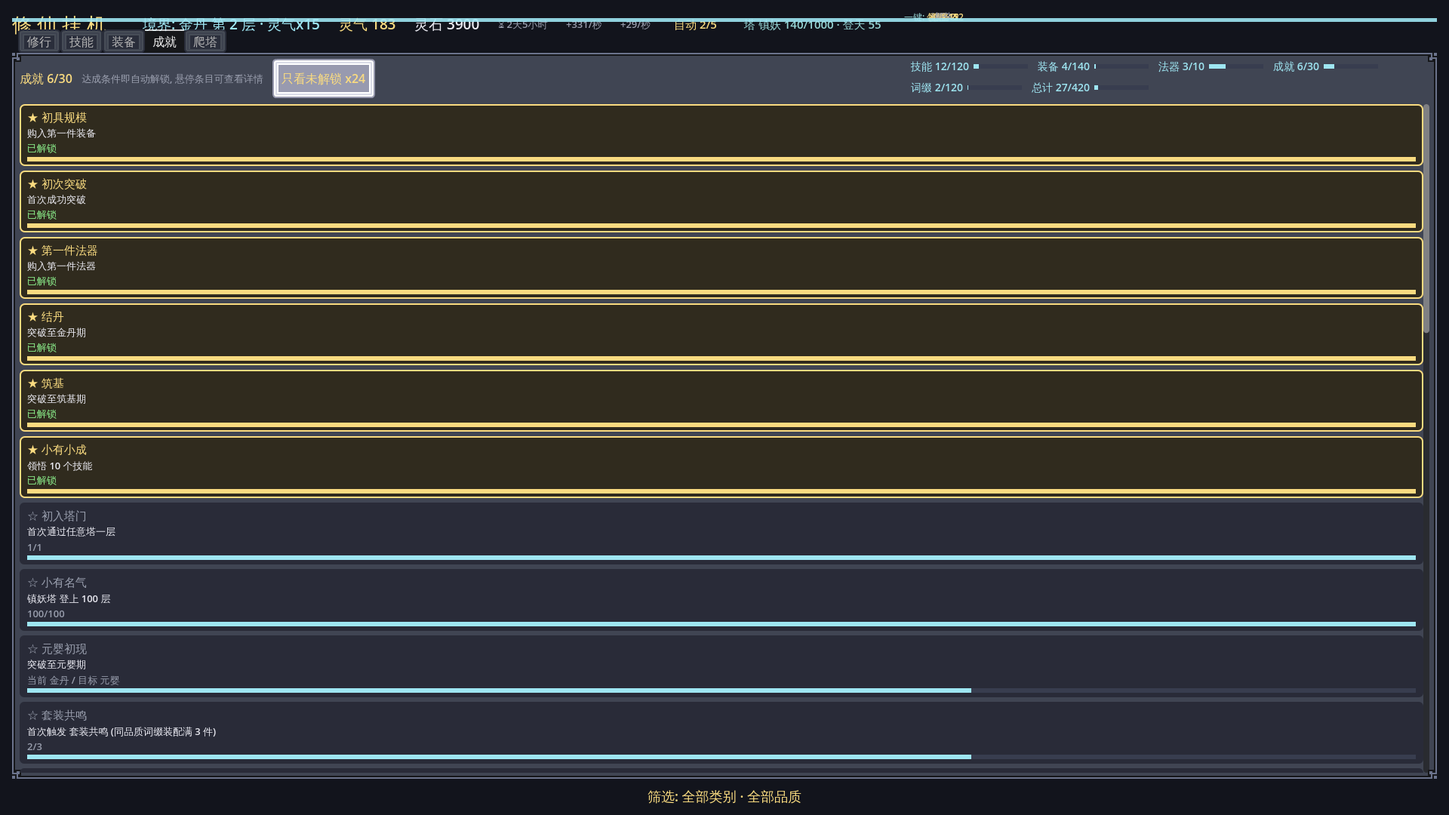
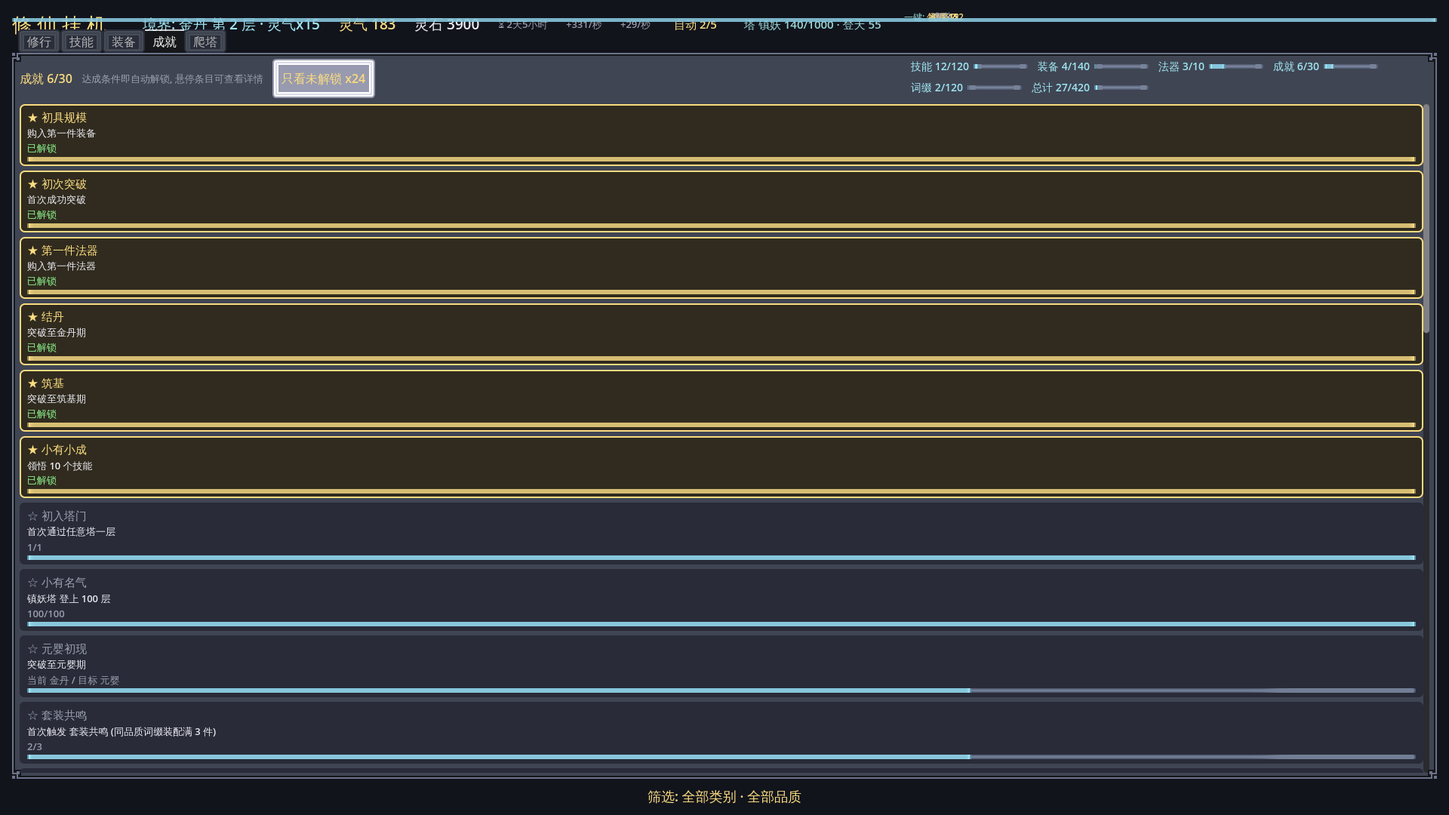
feat(打磨-135d): 进度条族 7 族 bar 底+填充 换 9-slice 纹理 (bar_track 裁实心带防细条压扁/bar_fill 裁亮带 modulate 金青档 逻辑不变)
ui_test +29 断言 (纹理路径/裁带 region/边距/modulate/goalbar 攒满 动态/节流/收尾); selftest 10952 / stress 646 / ui_test 2741 / 冒烟 0 报错

diff --git a/README.md b/README.md
@@ -62,7 +62,7 @@ PROJECT_PLAN.md          # 项目计划
 ~/bin/godot --headless --path .            # 无头冒烟 (应无报错, 会一直挂机运行)
 ~/bin/godot --headless --path . -s res://scripts/selftest.gd   # 全流程自测 (学习/购买/穿戴/冷却/存读档/倍率/数值曲线/成就/飞升后道行/装备/技能浮动灵气速率增量/神通爆发预览/一键神通/神通冷却完毕就绪事件/神通冷却进度比例/突破成功率tooltip预期成本/突破失败浮动预期成本/突破成功浮动新境界成功率/离线收益启动金色浮动/自动突破/自动购置/自动施展/自动领悟/自动系列状态汇总/自动系列开关启动提示/顶栏自动系列状态徽标/顶栏自动徽标点击直达/顶栏一键系列状态汇总徽标/一键汇总徽标段悬浮明细/挂机时长顶栏常显/主资源速率顶栏常显/灵石速率顶栏常显/下一目标渐变进度条/挂机时长悬停离线收益预估/自动购置按钮tooltip动态段/自动突破按钮tooltip动态段/自动施展自动领悟按钮tooltip动态段/顶栏主资源行悬停下一目标tooltip/一键挂机/一键挂机按钮tooltip动态段/顶栏挂机状态徽标点击直达/成就页只看未解锁筛选/M5-4镇妖塔通关态(称号+灵石100万+永久atk/def+15%增益, 守塔模式幂等/顶栏称号徽标/存档旧档兜底)/M5-1爬塔数据层(18特性/145怪物/镇妖塔1000层表)/M6-1 DIY装备词缀数据层(120词缀 6池x5品质x4变体+掉落概率表20桶)/M6-2 DIY词缀逻辑层(库存/装配/拆卸/分解/槽位升级/套装共鸣/属性公式接入/塔掉落结算/存档旧档兜底)/M6-3 DIY词缀UI数据层(评分/装配预览/收集成就/一键装配/分解全部/存档seen_affixes)/收集进度一览词缀类(五类+总计419/词缀只增不减)/塔战斗词缀掉落底部消息展示(打磨-94 affix_drop_text)/自动爬塔胜局汇总底部消息+会话统计状态行(打磨-95 auto_tower_last_text)/词缀材料系统(打磨-96 分解产出材料1+品质档/材料兑换指定池品质词缀保底获取/背包满普通自动入料/槽位升级消耗200材料/affix_best_variant_id/存档affix_materials旧档兜底)/背包容量成就解锁(打磨-97 bag_40百宝囊:曾入包满30格容量30->40/bag_expand配置派生态不存档/容量行tooltip动态段/成就进度比例/存档ach_done往返+旧档30兜底)/选中词缀评分Δ实时预览+评分小数显示修复(打磨-98 fmt_score<1e4两位小数>=1e4万档/affix_sel_delta_text只读接口:空槽增益与已装槽换装净增益取最大/无正增益与未选中空串/装备取前3件+等N件汇总)/一键强化槽位(打磨-99 affix_upgrade_all批量接口:道祖期批量3->4槽200材料/件/0变更幂等不消耗/未道祖期与材料不足与全满级与无拥有拒绝/结果结构count-upgraded-cost-materials前后)/奖励类特性结算接入(打磨-100 18特性全量:材料囊x2材料/幸运50%全奖励x2/不屈x1.2/词缀袋掉率+10%/富矿灵石x2, 材料掉落=1+怪物种mat_w整件入账, 会话材料累计+状态行材料段, 存档读档归零, 只读无副作用)/一键兑换(打磨-101 affix_exchange_all批量接口:材料连兑买不起或背包满为止复用affix_exchange真实路径/0可兑幂等不消耗/背包满中途停止/返回count-id-cost-materials前后/空池结构完整不崩溃/背包留1空只兑1件封顶)/登天梯500层后全部怪物默认魔化(打磨-102 get_endless_floor 500+非Boss层魔化口径同精英:数值x3+追加1层取模确定性特性+「魔化·」前缀+奖励x2/Boss层独立x10不叠魔化/500前旧口径不变)/登天梯里程碑宝箱保底高品质词缀(打磨-103 来源配置min_tier=稀有+affix_roll_drop钳制只升不降/其余来源旧口径不变/里程碑Boss层怪物卡tooltip展示保底段)/天怨特性登天梯HP生效(打磨-104 heaven_grudge仅无尽塔HP x(1+层数/400) 数据驱动/monster_stats幂等防tooltip二次叠乘/怪物卡tooltip天怨生效段)/战斗时长预估行(打磨-105 tower_rounds_line只读接口:ceil(怪HP/预估伤害)伤害取最不利0.9档/败预测追加本层战力不足/回合>1e12走fmt万档防溢出/剧毒-15%联动/道祖量级锚定/只读无副作用)/怪物卡tooltip材料掉落预估(打磨-106 掉落展示灵石材料词缀材料段展示位:tooltip追加奖励材料N行=向上取整stats mats与战斗结算同源/修tower_monster_stats幂等再算丢mats:stats字典保留species键+mats沿用已结算值/材料囊x2层幂等恒等/空记录mats=0不展示行/只读无副作用)/塔战斗胜利浮动提示(打磨-107 tower_win_float_text只读接口:入参try_tower_challenge结算字典,败局与缺win字段空串,段=塔名层怪名+灵石+材料+幸运不屈+每日首胜+词缀件数,0奖励无对应段/只读无副作用)/怪物种reward权重stone_w与affix_w结算接入(打磨-108 M5掉落差异化灵石与词缀段落地:stone_w乘层表灵石进tower_monster_stats stone首算叠+stats幂等沿用不二重/affix_w作词缀掉率base乘数affix_roll_drop有效掉率=来源base x affix_w + bonus_chance clamp 0..1/Boss无种层权重1.0旧口径兜底/怪物卡tooltip种掉落权重行)装备按评分排序数据层(打磨-109 M6规格装备列表按评分排序:equip_score_sort_order评分降序同分id升序确定性/单调性全表非增/词缀装配评分联动位置升/拆卸回退/默认状态序打磨-22口径不变/只读无副作用)/修行统计词缀段(打磨-110 stats_text追加词缀掉落装配分解兑换4段:埋点打磨-96/99/101已有展示位补齐/只读拼接无新存档字段/_load_stats兜底0/存档往返恒等/主场景统计行tooltip口径说明)/爬塔战力对比DEF段(打磨-111 M5规格玩家atk/def vs怪物DEF段:tower_power_def_line只读接口玩家DEF=player_def汇总剧毒不生效怪物DEF同源/双塔卡片战力对比行下12px DEF行/刷新键玩家DEF 0.5档)/换装对比战力评分Δ段(打磨-112 M6规格当前穿戴vs备选实时对比缺口:equip_swap_hint追加d_atk/d_def/score_d三段=新-旧atk/def池与equip_score差/灵气灵石攻击防御负数带负号0省略评分段恒带+0.00无变化信号/全无变化空text旧口径/只读无副作用)/爬塔战力构成tooltip(打磨-113 M5规格境界x功法x装备x塔专属加成构成展示位:GameData.tower_power_compose_tip只读接口五段构成境界基础x功法池x装备池含词缀x法器池x塔专属通关增益+套装共鸣/汇总行同源player_atk/def/剧毒只减有效ATK不入基础构成/功法装备法器池变化动态同步/共鸣x1.06触发/通关x1.15/境界40^1基础80档/飞升道祖进度17/只读连读无副作用)/镇妖塔通关大奖顶级传说词缀x3(打磨-114 M5规格一次性大奖顶级词缀x3落地:原神品口径M6落地后=最高档传说,GameData.tower_clear_affix_ids只读接口每池最高价值变体按价值降序取前3/try_tower_challenge首通1000层结算发放3件传说入包+背包满折算材料1+品质档/塔_clear_reward_text追加顶级传说词缀xN段+背包满折算材料段/胜利浮动与自动爬塔文案追加大奖词缀段/守塔幂等不重发/结果字典新增clear_reward_affixes+clear_reward_mat/旧档兼容)/登天梯里程碑Boss里程碑宝箱标记+胜利浮动宝箱段(打磨-115 M5规格每100层里程碑Boss+宝箱保底稀有+词缀展示位:try_tower_challenge结果字典新增is_milestone=登天梯100倍数boss胜局与drop_src=milestone同口径/塔win_float_text追加里程碑宝箱保底稀有+词缀段/仅登天梯生效镇妖塔与精英层与普通层与败局恒false/只读无副作用)/登天梯每日首胜奖励当日状态行(打磨-116 M5规格每日首胜奖励展示位:tower_daily_date==今日即已触发与结算分支同口径/tower_daily_first_line只读两态接口已触发明日再触发与未触发0.5x口径说明/tower_status_line已触发追加段未触发不追加/当日再胜新纪录不重复发放幂等/跨日日期非今日段消失可再触发/只读连读无副作用)/怪物卡tooltip属性偏向类型行(打磨-117 M5规格120怪物种stat_bias血牛狂攻铁壁均衡展示位:tower_monster_stats追加bias_cn/category_name字段stats字典携带幂等原始记录从怪物种解析Boss无种空串兜底/tower_monster_tip特性行后追加类型·偏向行仅数据层展示只读无副作用)/镇妖塔主题与最终Boss分层标记+tooltip分层行(打磨-118 M5规格25专属Boss20小x10+4主题x20+最终Boss镇妖塔主x50分层展示位:tower_boss_tier三态只读接口small/theme/final非Boss与登天梯里程碑Boss空串不展示/TOWER_BOSS_MULT_SMALL_THEME_FINAL常量单一来源与gen_data同口径数值已落表只展示不改数值/tower_monster_tip特性行后追加分层行空串不展示+name行追加主题Boss与最终Boss后缀小Boss无后缀防重复/只读无副作用)/怪物卡tooltip精英与魔化结构行(打磨-119 M5规格每10层精英数值x3掉落x2+登天梯500层后所有怪物默认魔化的结构奖励倍率展示位:数值与掉落已随层表结算只给口径说明,tower_struct_line只读接口双塔精英同结构魔化前缀+追加1额外特性+x3/x2与TOWER_ELITE_MULT_REWARD常量同源登天梯500+非Boss层恒魔化ENDLESS_DEMON_FLOOR/非精英与Boss层空串不叠/分层行后追加结构行只读无副作用)/怪物卡tooltip词缀掉落概率行(打磨-120 M6规格掉落来源普通5%精英20%Boss1~3件里程碑宝箱1~2件展示位缺口:结算口径affix_roll_drop已落地但tooltip无概率展示,tower_affix_drop_line只读接口=来源base x种affix_w+词缀袋+10%同表达式clamp 100%转1~N件/败局不掉词缀标注仅胜利/普通层百分比档精英base20%Boss100%1~3件里程碑100%1~2件/stats字典路径幂等恒等不丢/状态行tooltip词缀掉落口径说明)/双塔卡片下一里程碑行(打磨-121 M5规格每100层天阶里程碑进度展示位:tower_milestone_line只读接口距下个精英层/小Boss/主题Boss/最终Boss/登天梯里程碑Boss还有几层,本层即是标注就在本层,登天梯100倍数下一里程碑Boss+宝箱保底稀有+/镇妖塔通关守塔模式空串隐藏/双塔卡片回合预估行下12px里程碑行文本变化才刷空串隐藏/tooltip口径说明)/自动爬塔会话词缀段(打磨-122 挂机自动爬塔战斗掉落词缀会话累计展示位:_auto_tower_affixes会话累计内存态读档归零,状态行与auto_tower_session_text追加词缀N件段0不追加旧口径/通关大奖词缀另段不计入/刷新键并入会话材料词缀累计/状态行tooltip口径说明)/爬塔战力对比胜阈值缺口行(打磨-123 败预测时玩家不知需多少ATK才胜:tower_win_threshold_line只读接口,阈值=怪物ATK x 0.85与tower_power_line判定口径同源单点,缺口=阈值-当前有效ATK剧毒已计入,fmt_score口径<1e4两位小数防fmt int截断,弱玩家数据锚定镇妖塔第12层判定败缺口收窄功法/装备池变化动态恒等剧毒放大/登天梯同口径/只读连读恒定无副作用)/挑战按钮tooltip动态段(打磨-124 点击前悬停不知本层胜败预测与胜利结算内容:tower_challenge_tip只读接口=层标题+tower_power_line胜负预测+败预测追加tower_win_threshold_line阈值/缺口行/胜预测追加胜利结算预览段(灵石表值幸运不屈属结算随机不入预览+材料向上取整同怪物卡+词缀掉率同tower_affix_drop_line仅胜利结算+登天梯每日首胜0.5x口径+镇妖塔1000层首通一次性大奖口径未通关未发放态+剧毒怪战胜减攻警告),main.gd _tw_btn_tips缓存文本变化才刷)/自动爬塔开关tooltip会话统计段(打磨-125 挂机期间自动爬塔胜局/灵石/材料/词缀累计悬停展示位:开关tooltip动态段追加本次运行会话行=auto_tower_session_text单源恒等不二次拼接/0胜局显口径说明(内存态不持久化读档归零)防误读为断档/真实链路道祖自动双塔全胜文案随结算动态同步/只读连读恒定无副作用),主场景 冒烟 0 报错 回归 全过, main.gd _tw_auto_btn tooltip缓存文本变化才刷/双塔卡片下一里程碑ETA行(打磨-127 战斗节奏≤2秒/层时间预期:tower_milestone_eta只读接口=层距x本层预估回合[tower_rounds_line同源最不利0.9档]x2s/层,7天+封顶,败预测显战力不足提示,守塔模式/无下一里程碑空串,目标解析抽单点_tower_milestone_target与tower_milestone_line文案同源恒等/双塔卡片里程碑行下12px ETA行文本变化才刷/刷新键并入通关态感知守塔翻转/tooltip口径说明/动态同步升层剧毒强玩家), main.gd _tw_milestone_eta_labels双塔标签缓存/登天梯段进度(打磨-129 tower_endless_mile_ratio单点口径(层%100)/100,100倍数满条过层绕回<1钳制1层,1..99严格单调2000层扫描区间[0.01,1.0]只读连读无副作用)/顶栏双塔进度徽标(打磨-130 挂机扫视顶栏爬塔进度展示位:tower_progress_badge_text只读接口=塔镇妖N/1000(通关)+登天M,双塔均0层空串UI隐藏防空占位与tower_status_line同源字段/通关追加(通关)标注/登天跨档动态同步/tower_progress_badge_tip口径说明+点击直达/只读连读恒定无副作用/顶栏双塔进度徽标tooltip动态段(打磨-131 会话文案单源复用auto_tower_session_text:开关门控+会话空门控/开关关会话保留/只读无副作用)/自动爬塔会话登天梯新纪录累计段(打磨-132 挂机回来看会话不知本次运行创几个新纪录:_auto_tower_new_records次数+_auto_tower_new_best最高层内存态读档归零同灵石口径/_try_auto_tower按结算字典new_record字段累计仅登天梯胜局计入镇妖塔败局恒false/auto_tower_session_text追加新纪录N次最高第M层段0新纪录旧口径0胜局分支恒无段状态行单源复用自动覆盖/刷新键并入会话新纪录次数防漏刷/状态行tooltip口径说明)/自动爬塔会话里程碑宝箱累计段(打磨-133 挂机回来看会话不知本次运行触发几次里程碑宝箱:_auto_tower_milestones内存态读档归零同灵石口径/_try_auto_tower按结算字典is_milestone字段累计仅登天梯100倍数Boss胜局计入镇妖塔普通层败局恒false/auto_tower_session_text追加里程碑宝箱N次段0不追加旧口径段在词缀后新纪录前状态行单源复用自动覆盖/刷新键并入会话宝箱次数防漏刷/状态行tooltip口径说明), 10952 项, 退出码 0=通过)
 ~/bin/godot --headless --path . -s res://scripts/stress_test.gd  # 数值曲线压力测试 (全境界/全品质梯度/解锁门槛一致性/后期溢出检查/M6-4 DIY词缀数值平衡[词缀曲线vs商店装备/满配20槽溢出/共鸣x1.4封顶/成功率离线clamp/掉落桶品质曲线/槽位升级材料扣减(打磨-96)/怪物种reward权重受控(打磨-108 120种stone_w 0.8~1.4与affix_w 0.2~0.8范围断言+同种跨层1.06指数灵石曲线单调有限)], 646 项, CI 可跑, 退出码 0=通过)
-~/bin/godot --headless --path . res://scenes/ui_test.tscn  # UI 断言 (成就进度条/收集条/品质色/一键系列/顶栏灵石可购进度/灵石行内联下一件可购/法器属性构成/装备/技能浮动灵气速率增量/神通爆发预览/单个神通施展浮动/一键神通/神通冷却完毕就绪浮动/神通冷却进度条/神通冷却完毕收口动画+按钮微光/一键施展浮动爆发总量/单个神通施展浮动爆发总量/冷却完毕就绪浮动爆发总量/突破成功率tooltip预期成本/突破失败浮动预期成本/突破成功浮动新境界成功率/离线收益启动金色浮动/自动突破/自动购置/自动施展/自动领悟/自动系列状态汇总/自动系列汇总行点击直达/自动系列开关启动提示/顶栏自动系列状态徽标/顶栏自动徽标点击直达/顶栏一键系列状态汇总徽标/一键汇总徽标段悬浮明细/挂机时长顶栏常显/主资源速率顶栏常显/灵石速率顶栏常显/下一目标渐变进度条/顶栏进度条点击直达/挂机时长悬停离线收益预估/自动购置按钮tooltip动态段/自动突破按钮tooltip动态段/自动施展自动领悟按钮tooltip动态段/顶栏主资源行悬停下一目标tooltip/一键挂机/一键挂机按钮tooltip动态段/顶栏挂机状态徽标点击直达/成就页只看未解锁筛选/M5-4镇妖塔通关态(称号徽标显隐/tooltip/点击直达爬塔页tab4+镇妖塔卡片金边高亮/未通关不发放/首通发放灵石大奖/守塔幂等/状态行称号)/M6-3 DIY词缀UI(词缀背包抽屉/槽位chips装配拆卸换装/评分行/一键最佳装配/分解全部/选中金边/tooltip评分行)/收集进度一览词缀类(6条mini进度条/总419/词缀点击直达装备页)/塔战斗词缀掉落底部消息展示(打磨-94 胜局boss必掉词缀消息段/败局无段)/自动爬塔胜局汇总底部消息+会话统计状态行(打磨-95 挂机期间胜局静默补位/变更事件节流/会话不持久化)/词缀材料兑换面板(打磨-96 材料行/6池x5品质筛选/兑换按钮文案节流/兑换入包最高价值变体/材料不足与背包满拒绝/toggle取消选中)/背包容量成就解锁UI(打磨-97 容量行30->40动态文案/tooltip未解锁还差N种与已解锁两态/成就解锁ach_done/40满拒绝/节流稳定/收尾回30)/选中词缀评分Δ预览行(打磨-98 未选中隐藏/空槽增益/换装取最大/全满换装净增益0.094精确/全平负隐藏/节流/只读无副作用/评分断言fmt_score适配)/一键强化槽位按钮(打磨-99 道祖期批量3->4:按钮节点+tooltip成本道祖期幂等口径/文案需道祖期·材料不足两档·xN计数/点击升4槽+扣200+chips重建4+底部消息+浮动/满级文案同步/再点幂等0变更不浮动/主循环文案同步/收尾干净基准)/一键兑换按钮(打磨-101 材料连兑买不起或背包满为止:按钮节点+tooltip连兑背包满幂等口径/材料0不足·x2计数文案/点击兑2件入包+扣50余20+底部消息+浮动/材料25 x1文案/背包满拒绝0件不扣不浮动/未选池文案/收尾干净基准)/登天梯500层后默认魔化(打磨-102 卡片副标题魔化口径/499层无魔化前缀/500层里程碑Boss标记不叠魔化/501层普通层怪物卡魔化前缀+战力对比按魔化数值预测败/弱玩家败停留无消耗/强玩家飞升道祖胜推进502+奖励+统计/502层恒魔化/收尾干净基准)/登天梯里程碑宝箱保底(打磨-103 卡片副标题宝箱口径/里程碑Boss层怪物卡tooltip含保底稀有+段同输入恒等/精英层无宝箱段/强玩家100层里程碑Boss胜局词缀入包品质恒>=稀有/收尾干净基准)/战斗时长预估行UI(打磨-105 双塔卡片怪物卡与战力对比间12px预估行:标签节点双塔齐全/文案=tower_rounds_line接口恒等/败预测追加本层战力不足与胜预测无后缀/回合+伤害预估段/升层动态同步/剧毒接口恒等/同态节流无副作用/收尾干净基准)/怪物卡tooltip材料预估行UI(打磨-106 双塔怪物卡tooltip含奖励材料N行=向上取整stats mats/tooltip=接口同输入恒等stats字典路径材料行不丢/登天梯同口径/同态节流无副作用/收尾干净基准)/塔战斗胜利浮动提示UI(打磨-107 手动挑战胜利居中绿色浮动:标签节点/第50层小Boss数据锚定/弱玩家恒败不弹浮动+败消息保留/强玩家道祖恒胜计数+1+文案前缀塔名层怪名+胜利+灵石段+词缀件数段+Boss层无材料段+可见+居中y段/收尾词缀清零防污染)/怪物种reward权重tooltip展示UI(打磨-108 双塔怪物卡tooltip含种掉落权重行=接口恒等stats字典路径权重行不丢/有怪物种层灵石x1.255词缀x0.630展示/Boss层权重1.0不展示/同态节流无副作用/收尾干净基准), scene 模式带 autoload装备按评分排序开关UI(打磨-109 装备页品质筛选行尾按评分排序按钮:开关/评分降序首行amulet_6_3同分id升序/末行boot_0_0/全表非增单调/筛选叠加武器首可见行weapon_6_3/词缀装配评分升行位上升/同态节流无统计副作用/开关切换无资源统计副作用/收尾关态干净基准)/修行统计词缀段UI(打磨-110 统计行文本=stats_text接口恒等含词缀4段/tooltip口径行/埋点递增_refresh同步/同态节流无副作用/收尾干净基准)/爬塔战力对比DEF行UI(打磨-111 双塔卡片战力对比行下12px DEF行:节点双塔齐全/文案=tower_power_def_line接口恒等/判定口径说明段/tooltip口径/剧毒ATK变DEF不变/飞升玩家DEF变化动态同步/复位后基准重捕获/升精英层怪物DEF动态同步/同态节流无副作用/收尾干净基准)/爬塔战力构成tooltip UI(打磨-113 战力对比行悬停五段构成:双塔tooltip=判定口径段+构成段拼接恒等/剧毒态判定口径段切减成口径/剧毒仅汇总行追加标注基础构成段不变/同态节流无副作用/收尾干净基准)/镇妖塔通关大奖顶级传说词缀UI(打磨-114 通关态段:大奖ids 3件全传说/首通发放3件传说入包与期望ids恒等/未背包满折算材料0/大奖文案含顶级传说词缀x3段/胜利浮动含大奖词缀段/守塔再胜不重发幂等/收尾清词缀残留防污染后续段)/登天梯里程碑Boss宝箱标记+胜利底部消息浮动宝箱段UI(打磨-115 怪物卡tag追加⚑Boss·里程碑宝箱仅登天梯100倍数boss层:100层含宝箱/101层普通层与镇妖塔不含/强玩家100层胜底部消息+浮动含里程碑宝箱保底稀有+段/101层胜无宝箱段/弱玩家败局不弹浮动/同态节流无副作用/收尾干净基准)/登天梯每日首胜当日状态行UI(打磨-116 爬塔页状态行追加已触发段:未触发态无段+文本=tower_status_line恒等/手动模拟当日触发态刷新键变化自动追加段/弱玩家第15层恒败败局不触发日期不变状态行保持/跨日日期=昨日段消失/状态行tooltip含每日首胜0.5x口径说明/同态节流无统计副作用/收尾干净基准防污染)/怪物卡tooltip属性偏向类型行UI(打磨-117 怪物卡tooltip含类型·偏向行仅数据层:镇妖塔第1层m41虫群·均衡型tooltip含偏向行+含偏向名/tooltip=接口同输入恒等stats字典路径不丢/登天梯第5层同口径恒等/Boss层镇妖塔50层无种无偏向行/同态节流无统计副作用/收尾干净基准)/镇妖塔主题与最终Boss卡片标记UI(打磨-118 卡片tag分层标记:第1层普通层无标记无分层行/第100层主题Boss卡片tag⚑主题Boss+名万幻妖殿主数据锚定+tooltip分层行/第50层小Boss tag恒⚑Boss旧口径+tooltip小Boss分层行/通关守塔模式最终Boss tag⚑最终Boss·镇妖塔主+tooltip最终Boss分层行/登天梯100层里程碑Boss不叠分层标记无分层行/状态行tooltip含分层口径/同态节流无统计副作用/收尾干净基准)/怪物卡tooltip精英与魔化结构行UI(打磨-119 结构行展示位:镇妖塔第1层普通层无精英标记无结构行/第10层精英卡片tag含★精英+魔化·前缀+tooltip含精英结构行=接口恒等/登天梯第510层魔化tooltip含魔化结构行=接口恒等/499层普通层无魔化前缀无结构行/500层里程碑Boss无结构行不叠/状态行tooltip含精英魔化口径/同态节流无统计副作用/收尾干净基准)/怪物卡tooltip词缀掉落概率行UI(打磨-120 掉落概率行展示位:普通层tooltip含掉率行=接口恒等+仅胜利口径/精英层含base20%行/小Boss100%1~3件段/登天梯里程碑Boss100%1~2件段/stats字典路径幂等恒等/状态行tooltip含词缀掉落口径/同态节流无副作用/收尾干净基准)/双塔卡片下一里程碑行UI(打磨-121 里程碑进度展示位:双塔卡片回合预估行下12px里程碑行/节点双塔齐全+基准文案=tower_milestone_line接口恒等含层数+余量/镇妖塔精英本层就在标注/登天梯100层下一=200层动态同步/镇妖塔通关守塔模式隐藏/tooltip口径说明/同态节流无统计副作用/收尾干净基准)/自动爬塔会话词缀段UI(打磨-122 状态行会话段词缀累计:初始0胜局无会话段/手动会话态状态行含词缀3件=auto_tower_session_text恒等/0词缀无词缀段旧口径/状态行tooltip含会话词缀口径大奖另段/同会话态节流无资源统计副作用/收尾干净基准)/爬塔战力对比胜阈值缺口行UI(打磨-123 败预测阈值行展示:双塔阈值行节点齐全/弱玩家镇妖塔第12层判定败数据锚定+登天梯第1层判定胜一败一胜双向/败预测行可见=接口恒等+胜预测行隐藏/阈值缺口数值段精确=怪物ATK x 0.85与缺口fmt_score口径/升精英层20层动态同步/剧毒缺口放大动态同步/tooltip口径+提升路径/强玩家胜预测双塔隐藏/同态节流无统计副作用/收尾干净基准)/挑战按钮tooltip动态段UI(打磨-124 点击前悬停胜败预测+胜利结算预览:双塔挑战按钮tooltip=tower_challenge_tip接口恒等/弱玩家镇妖塔第12层判定败+登天梯第1层判定胜一败一胜双向/败预测tooltip=层标题+预测败+tower_win_threshold_line阈值缺口行无结算预览/胜预测结算预览段精确=灵石表值+材料向上取整+词缀掉率=tower_affix_drop_line恒等+每日首胜未触发态+剧毒警告段恒等+无幸运不屈倍率段/升精英层20层动态同步/同态节流无资源统计副作用/收尾干净基准)/自动爬塔开关tooltip会话统计段UI(打磨-125 开关悬停会话展示位:0胜局tooltip含口径说明段=静态前缀+接口恒等/手动会话态tooltip含自动胜2场+材料+词缀四累计=接口恒等/0词缀无词缀段旧口径/双塔卡片下一里程碑ETA行UI(打磨-127 时间预期展示位:双塔ETA行节点齐全/弱玩家镇妖塔2层败预测战力不足提示=接口恒等+登天梯1层胜预测含下一里程碑ETA约99层段一败一胜双向/升层20层与登天梯100层败预测动态同步/剧毒态有效ATK降成x0.85 ETA行=接口恒等动态同步/tooltip含估算口径+7天封顶+不改判定说明/强玩家飞升道祖登天梯100层胜预测ETA行=接口恒等未封顶/镇妖塔通关守塔模式ETA行隐藏/同态节流无统计副作用/收尾干净基准)/顶栏双塔进度徽标UI(打磨-130 挂机扫视顶栏爬塔进度展示位:节点存在+同父顶栏+青色字色+手型光标+青色圆角底/初始双塔均0隐藏无热区/仅镇妖层·仅登天纪录·双塔并排·通关追加(通关)标注文案=接口恒等/tooltip=接口恒等含双塔口径+点击直达爬塔页/升层动态同步/点击切爬塔页tab4+状态行金边高亮2px+自动恢复/点击无塔统计副作用/同态节流无统计副作用/收尾双塔归零徽标隐藏/顶栏双塔进度徽标tooltip动态段UI(打磨-131 初始会话空+关开关tooltip=静态前缀/会话胜局态开开关_refresh动态同步含四累计=静态+接口恒等/败局清零无段旧口径/开关关段消失会话保留/回开恢复/同态节流无副作用/收尾双塔归零隐藏tooltip空)/自动爬塔会话新纪录累计段UI(打磨-132 状态行会话段新纪录累计展示位:初始0胜局状态行无会话段=接口恒等/会话胜局态新纪录2次最高88_refresh动态同步状态行含段单源恒等/0新纪录无段旧口径/同态节流无统计副作用/收尾状态行=接口恒等干净基准)/自动爬塔会话里程碑宝箱累计段UI(打磨-133 状态行会话段里程碑宝箱累计展示位:初始0胜局状态行无会话段=接口恒等/会话胜局态宝箱3次_refresh动态同步状态行含宝箱段+新纪录段单源恒等/0宝箱无段旧口径/同态节流无统计副作用/状态行tooltip含宝箱段口径/收尾干净基准)/各页大容器frost面板纹理换皮UI(打磨-135b 5页大容器9-slice面板底panel_frame_frost.png:5页StyleBoxTexture+纹理路径+9-slice边距+modulate深色仙侠口径/页内容布局偏移不变x5/技能行卡片仍StyleBoxFlat行高亮金框口径不变/Tab切换0..4往返功能不变/收尾恢复成就页),词缀背包格btn_secondary 9-slice换皮UI(打磨-135c-2 词缀格未选中btn_secondary.png 9-slice纹理底:四态齐全+9-slice边距非0+三态同源纹理状态由modulate区分/悬停提亮与按下压暗区分/深色仙侠底b>r口径/flat保留/选中金边M6-3口径边框2/残留flat排查:徽标族+段热区+顶栏进度条底+收集行+一键挂机flat有意保留清单断言), 2712 项, 退出码 0=通过)
+~/bin/godot --headless --path . res://scenes/ui_test.tscn  # UI 断言 (成就进度条/收集条/品质色/一键系列/顶栏灵石可购进度/灵石行内联下一件可购/法器属性构成/装备/技能浮动灵气速率增量/神通爆发预览/单个神通施展浮动/一键神通/神通冷却完毕就绪浮动/神通冷却进度条/神通冷却完毕收口动画+按钮微光/一键施展浮动爆发总量/单个神通施展浮动爆发总量/冷却完毕就绪浮动爆发总量/突破成功率tooltip预期成本/突破失败浮动预期成本/突破成功浮动新境界成功率/离线收益启动金色浮动/自动突破/自动购置/自动施展/自动领悟/自动系列状态汇总/自动系列汇总行点击直达/自动系列开关启动提示/顶栏自动系列状态徽标/顶栏自动徽标点击直达/顶栏一键系列状态汇总徽标/一键汇总徽标段悬浮明细/挂机时长顶栏常显/主资源速率顶栏常显/灵石速率顶栏常显/下一目标渐变进度条/顶栏进度条点击直达/挂机时长悬停离线收益预估/自动购置按钮tooltip动态段/自动突破按钮tooltip动态段/自动施展自动领悟按钮tooltip动态段/顶栏主资源行悬停下一目标tooltip/一键挂机/一键挂机按钮tooltip动态段/顶栏挂机状态徽标点击直达/成就页只看未解锁筛选/M5-4镇妖塔通关态(称号徽标显隐/tooltip/点击直达爬塔页tab4+镇妖塔卡片金边高亮/未通关不发放/首通发放灵石大奖/守塔幂等/状态行称号)/M6-3 DIY词缀UI(词缀背包抽屉/槽位chips装配拆卸换装/评分行/一键最佳装配/分解全部/选中金边/tooltip评分行)/收集进度一览词缀类(6条mini进度条/总419/词缀点击直达装备页)/塔战斗词缀掉落底部消息展示(打磨-94 胜局boss必掉词缀消息段/败局无段)/自动爬塔胜局汇总底部消息+会话统计状态行(打磨-95 挂机期间胜局静默补位/变更事件节流/会话不持久化)/词缀材料兑换面板(打磨-96 材料行/6池x5品质筛选/兑换按钮文案节流/兑换入包最高价值变体/材料不足与背包满拒绝/toggle取消选中)/背包容量成就解锁UI(打磨-97 容量行30->40动态文案/tooltip未解锁还差N种与已解锁两态/成就解锁ach_done/40满拒绝/节流稳定/收尾回30)/选中词缀评分Δ预览行(打磨-98 未选中隐藏/空槽增益/换装取最大/全满换装净增益0.094精确/全平负隐藏/节流/只读无副作用/评分断言fmt_score适配)/一键强化槽位按钮(打磨-99 道祖期批量3->4:按钮节点+tooltip成本道祖期幂等口径/文案需道祖期·材料不足两档·xN计数/点击升4槽+扣200+chips重建4+底部消息+浮动/满级文案同步/再点幂等0变更不浮动/主循环文案同步/收尾干净基准)/一键兑换按钮(打磨-101 材料连兑买不起或背包满为止:按钮节点+tooltip连兑背包满幂等口径/材料0不足·x2计数文案/点击兑2件入包+扣50余20+底部消息+浮动/材料25 x1文案/背包满拒绝0件不扣不浮动/未选池文案/收尾干净基准)/登天梯500层后默认魔化(打磨-102 卡片副标题魔化口径/499层无魔化前缀/500层里程碑Boss标记不叠魔化/501层普通层怪物卡魔化前缀+战力对比按魔化数值预测败/弱玩家败停留无消耗/强玩家飞升道祖胜推进502+奖励+统计/502层恒魔化/收尾干净基准)/登天梯里程碑宝箱保底(打磨-103 卡片副标题宝箱口径/里程碑Boss层怪物卡tooltip含保底稀有+段同输入恒等/精英层无宝箱段/强玩家100层里程碑Boss胜局词缀入包品质恒>=稀有/收尾干净基准)/战斗时长预估行UI(打磨-105 双塔卡片怪物卡与战力对比间12px预估行:标签节点双塔齐全/文案=tower_rounds_line接口恒等/败预测追加本层战力不足与胜预测无后缀/回合+伤害预估段/升层动态同步/剧毒接口恒等/同态节流无副作用/收尾干净基准)/怪物卡tooltip材料预估行UI(打磨-106 双塔怪物卡tooltip含奖励材料N行=向上取整stats mats/tooltip=接口同输入恒等stats字典路径材料行不丢/登天梯同口径/同态节流无副作用/收尾干净基准)/塔战斗胜利浮动提示UI(打磨-107 手动挑战胜利居中绿色浮动:标签节点/第50层小Boss数据锚定/弱玩家恒败不弹浮动+败消息保留/强玩家道祖恒胜计数+1+文案前缀塔名层怪名+胜利+灵石段+词缀件数段+Boss层无材料段+可见+居中y段/收尾词缀清零防污染)/怪物种reward权重tooltip展示UI(打磨-108 双塔怪物卡tooltip含种掉落权重行=接口恒等stats字典路径权重行不丢/有怪物种层灵石x1.255词缀x0.630展示/Boss层权重1.0不展示/同态节流无副作用/收尾干净基准), scene 模式带 autoload装备按评分排序开关UI(打磨-109 装备页品质筛选行尾按评分排序按钮:开关/评分降序首行amulet_6_3同分id升序/末行boot_0_0/全表非增单调/筛选叠加武器首可见行weapon_6_3/词缀装配评分升行位上升/同态节流无统计副作用/开关切换无资源统计副作用/收尾关态干净基准)/修行统计词缀段UI(打磨-110 统计行文本=stats_text接口恒等含词缀4段/tooltip口径行/埋点递增_refresh同步/同态节流无副作用/收尾干净基准)/爬塔战力对比DEF行UI(打磨-111 双塔卡片战力对比行下12px DEF行:节点双塔齐全/文案=tower_power_def_line接口恒等/判定口径说明段/tooltip口径/剧毒ATK变DEF不变/飞升玩家DEF变化动态同步/复位后基准重捕获/升精英层怪物DEF动态同步/同态节流无副作用/收尾干净基准)/爬塔战力构成tooltip UI(打磨-113 战力对比行悬停五段构成:双塔tooltip=判定口径段+构成段拼接恒等/剧毒态判定口径段切减成口径/剧毒仅汇总行追加标注基础构成段不变/同态节流无副作用/收尾干净基准)/镇妖塔通关大奖顶级传说词缀UI(打磨-114 通关态段:大奖ids 3件全传说/首通发放3件传说入包与期望ids恒等/未背包满折算材料0/大奖文案含顶级传说词缀x3段/胜利浮动含大奖词缀段/守塔再胜不重发幂等/收尾清词缀残留防污染后续段)/登天梯里程碑Boss宝箱标记+胜利底部消息浮动宝箱段UI(打磨-115 怪物卡tag追加⚑Boss·里程碑宝箱仅登天梯100倍数boss层:100层含宝箱/101层普通层与镇妖塔不含/强玩家100层胜底部消息+浮动含里程碑宝箱保底稀有+段/101层胜无宝箱段/弱玩家败局不弹浮动/同态节流无副作用/收尾干净基准)/登天梯每日首胜当日状态行UI(打磨-116 爬塔页状态行追加已触发段:未触发态无段+文本=tower_status_line恒等/手动模拟当日触发态刷新键变化自动追加段/弱玩家第15层恒败败局不触发日期不变状态行保持/跨日日期=昨日段消失/状态行tooltip含每日首胜0.5x口径说明/同态节流无统计副作用/收尾干净基准防污染)/怪物卡tooltip属性偏向类型行UI(打磨-117 怪物卡tooltip含类型·偏向行仅数据层:镇妖塔第1层m41虫群·均衡型tooltip含偏向行+含偏向名/tooltip=接口同输入恒等stats字典路径不丢/登天梯第5层同口径恒等/Boss层镇妖塔50层无种无偏向行/同态节流无统计副作用/收尾干净基准)/镇妖塔主题与最终Boss卡片标记UI(打磨-118 卡片tag分层标记:第1层普通层无标记无分层行/第100层主题Boss卡片tag⚑主题Boss+名万幻妖殿主数据锚定+tooltip分层行/第50层小Boss tag恒⚑Boss旧口径+tooltip小Boss分层行/通关守塔模式最终Boss tag⚑最终Boss·镇妖塔主+tooltip最终Boss分层行/登天梯100层里程碑Boss不叠分层标记无分层行/状态行tooltip含分层口径/同态节流无统计副作用/收尾干净基准)/怪物卡tooltip精英与魔化结构行UI(打磨-119 结构行展示位:镇妖塔第1层普通层无精英标记无结构行/第10层精英卡片tag含★精英+魔化·前缀+tooltip含精英结构行=接口恒等/登天梯第510层魔化tooltip含魔化结构行=接口恒等/499层普通层无魔化前缀无结构行/500层里程碑Boss无结构行不叠/状态行tooltip含精英魔化口径/同态节流无统计副作用/收尾干净基准)/怪物卡tooltip词缀掉落概率行UI(打磨-120 掉落概率行展示位:普通层tooltip含掉率行=接口恒等+仅胜利口径/精英层含base20%行/小Boss100%1~3件段/登天梯里程碑Boss100%1~2件段/stats字典路径幂等恒等/状态行tooltip含词缀掉落口径/同态节流无副作用/收尾干净基准)/双塔卡片下一里程碑行UI(打磨-121 里程碑进度展示位:双塔卡片回合预估行下12px里程碑行/节点双塔齐全+基准文案=tower_milestone_line接口恒等含层数+余量/镇妖塔精英本层就在标注/登天梯100层下一=200层动态同步/镇妖塔通关守塔模式隐藏/tooltip口径说明/同态节流无统计副作用/收尾干净基准)/自动爬塔会话词缀段UI(打磨-122 状态行会话段词缀累计:初始0胜局无会话段/手动会话态状态行含词缀3件=auto_tower_session_text恒等/0词缀无词缀段旧口径/状态行tooltip含会话词缀口径大奖另段/同会话态节流无资源统计副作用/收尾干净基准)/爬塔战力对比胜阈值缺口行UI(打磨-123 败预测阈值行展示:双塔阈值行节点齐全/弱玩家镇妖塔第12层判定败数据锚定+登天梯第1层判定胜一败一胜双向/败预测行可见=接口恒等+胜预测行隐藏/阈值缺口数值段精确=怪物ATK x 0.85与缺口fmt_score口径/升精英层20层动态同步/剧毒缺口放大动态同步/tooltip口径+提升路径/强玩家胜预测双塔隐藏/同态节流无统计副作用/收尾干净基准)/挑战按钮tooltip动态段UI(打磨-124 点击前悬停胜败预测+胜利结算预览:双塔挑战按钮tooltip=tower_challenge_tip接口恒等/弱玩家镇妖塔第12层判定败+登天梯第1层判定胜一败一胜双向/败预测tooltip=层标题+预测败+tower_win_threshold_line阈值缺口行无结算预览/胜预测结算预览段精确=灵石表值+材料向上取整+词缀掉率=tower_affix_drop_line恒等+每日首胜未触发态+剧毒警告段恒等+无幸运不屈倍率段/升精英层20层动态同步/同态节流无资源统计副作用/收尾干净基准)/自动爬塔开关tooltip会话统计段UI(打磨-125 开关悬停会话展示位:0胜局tooltip含口径说明段=静态前缀+接口恒等/手动会话态tooltip含自动胜2场+材料+词缀四累计=接口恒等/0词缀无词缀段旧口径/双塔卡片下一里程碑ETA行UI(打磨-127 时间预期展示位:双塔ETA行节点齐全/弱玩家镇妖塔2层败预测战力不足提示=接口恒等+登天梯1层胜预测含下一里程碑ETA约99层段一败一胜双向/升层20层与登天梯100层败预测动态同步/剧毒态有效ATK降成x0.85 ETA行=接口恒等动态同步/tooltip含估算口径+7天封顶+不改判定说明/强玩家飞升道祖登天梯100层胜预测ETA行=接口恒等未封顶/镇妖塔通关守塔模式ETA行隐藏/同态节流无统计副作用/收尾干净基准)/顶栏双塔进度徽标UI(打磨-130 挂机扫视顶栏爬塔进度展示位:节点存在+同父顶栏+青色字色+手型光标+青色圆角底/初始双塔均0隐藏无热区/仅镇妖层·仅登天纪录·双塔并排·通关追加(通关)标注文案=接口恒等/tooltip=接口恒等含双塔口径+点击直达爬塔页/升层动态同步/点击切爬塔页tab4+状态行金边高亮2px+自动恢复/点击无塔统计副作用/同态节流无统计副作用/收尾双塔归零徽标隐藏/顶栏双塔进度徽标tooltip动态段UI(打磨-131 初始会话空+关开关tooltip=静态前缀/会话胜局态开开关_refresh动态同步含四累计=静态+接口恒等/败局清零无段旧口径/开关关段消失会话保留/回开恢复/同态节流无副作用/收尾双塔归零隐藏tooltip空)/自动爬塔会话新纪录累计段UI(打磨-132 状态行会话段新纪录累计展示位:初始0胜局状态行无会话段=接口恒等/会话胜局态新纪录2次最高88_refresh动态同步状态行含段单源恒等/0新纪录无段旧口径/同态节流无统计副作用/收尾状态行=接口恒等干净基准)/自动爬塔会话里程碑宝箱累计段UI(打磨-133 状态行会话段里程碑宝箱累计展示位:初始0胜局状态行无会话段=接口恒等/会话胜局态宝箱3次_refresh动态同步状态行含宝箱段+新纪录段单源恒等/0宝箱无段旧口径/同态节流无统计副作用/状态行tooltip含宝箱段口径/收尾干净基准)/各页大容器frost面板纹理换皮UI(打磨-135b 5页大容器9-slice面板底panel_frame_frost.png:5页StyleBoxTexture+纹理路径+9-slice边距+modulate深色仙侠口径/页内容布局偏移不变x5/技能行卡片仍StyleBoxFlat行高亮金框口径不变/Tab切换0..4往返功能不变/收尾恢复成就页),词缀背包格btn_secondary 9-slice换皮UI(打磨-135c-2 词缀格未选中btn_secondary.png 9-slice纹理底:四态齐全+9-slice边距非0+三态同源纹理状态由modulate区分/悬停提亮与按下压暗区分/深色仙侠底b>r口径/flat保留/选中金边M6-3口径边框2/残留flat排查:徽标族+段热区+顶栏进度条底+收集行+一键挂机flat有意保留清单断言),,进度条族9-slice换皮UI(打磨-135d 7族进度条 bar 底+填充 换 9-slice 纹理:顶栏goalbar 5px/突破条 14px/冷却条 6px x24/双塔 10px x2/收集mini 6px x6/成就 6px xN:底=bar_track.png 9-slice 裁实心带(垂直0纯拉伸防细条压扁/Xvfb实测 5-14px 全完整)+水平边距4保端倒角+modulate青灰暗调/填充=bar_fill.png 9-slice 裁亮带+modulate金青档逻辑不变/7族底纹理路径+裁带region+边距恒等/填充纹理+modulate青档/goalbar攒满动态满条+modulate不变/同态节流无统计副作用/收尾复原0填充), 2741 项, 退出码 0=通过)
 ```
 
 ## 导出 (打包)

diff --git a/PROJECT_PLAN.md b/PROJECT_PLAN.md
@@ -198,7 +198,7 @@
 - [x] 135c-1：按钮族 核心换皮 — _make_button 默认三态 换 9-slice 按钮纹理（突破/挑战/购买/筛选 等全部 _make_button 按钮，金边高亮 [打磨-32/59] 适配纹理底，闪烁 [打磨-2] 恢复路径同步）（实现: _make_button(text, flat:=false) 新增 _make_btn_tex_sb(path) → StyleBoxTexture btn_primary/hover/pressed 三态 9-slice [Kenney CC0, 纹理 192x64 中心 实心 填充 角饰 在 内, 状态 由 纹理 本身 区分 hover 提亮/pressed 压暗 无 modulate, texture_margin 10/10/8/8 防 角饰 拉伸, content 12/12/6/6]; 金边高亮/微光 系统 保持 StyleBoxFlat 金边 叠加 纹理底, 结束 恢复 纹理 默认 [_apply_break_btn_style 非 ready 态 恢复 三态 纹理 / _skill_glow_restored 构建时 取 纹理 默认]; 一键挂机 按钮 flat 保留 [打磨-90 高亮 基于 border_width 断言, 须 flat 默认]; 坑: patch 工具 对 含 中文/转义 多行 模糊匹配 反复失败 (whitespace 差异), 用 execute_code Python 按行索引 精确替换; ui_test 新增 _assert_m135c_btn_skins 12 项 [突破按钮 三态 纹理 路径+9-slice 边距 非 0+三态 互 不同/技能 领悟 按钮 同 默认/一键挂机 flat 保留 border 默认/可突破 金边 StyleBoxFlat 叠加/微光中 金边+结束 恢复 纹理 默认] + 打磨-59 3 处 恢复断言 改 纹理 默认; selftest 10952 / ui_test +12=2674 / stress 646 / 冒烟 0 报错)
 - [x] 135c-2：按钮族 收尾 — 内联 Button.new() 族 (词缀背包格/词缀筛选/收集行/双塔/挑战行 等 非 _make_button 按钮) 换皮适配 + 残留 flat 默认 排查（实现: 词缀背包格 [唯一 非 _make_button 动作 按钮族] 换皮 = 未选中 btn_secondary.png 9-slice 纹理 底 (Kenney CC0, 角饰 占 外 4~5px, 边距 12/12/10/10 防 拉伸, 状态 由 modulate_color 深色仙侠 调色 区分: 未选中 0.26/0.3/0.36 深底 b>r / hover 0.42/0.5/0.58 提亮 / pressed+focus 0.2/0.23/0.28 压暗, 无 hover 纹理 变体 同 135a Tab 思路) + 选中 金边 StyleBoxFlat 叠加 M6-3 口径 不变 (断言 边框=2), flat 保留 防 引擎 默认 底 叠 纹理; 坑: _ready 成员 声明 区 无 缩进 (插 带 tab 行 致 Parse Error, 已修) + 重排 吞掉 if 块 var sb 行 (已 补回); 残留 flat 排查 结论: 内联 Button.new() 族 12 处 中 顶栏 徽标 族 (自动/挂机/通关/剧毒/双塔进度/一键 汇总, 语义色 圆角 徽标 金/紫/青 色板) + 段 热区 (一键 6 段/自动 汇总 5 段/收集 6 行, 透明 热区+独立 hover 链) + 顶栏 进度条 底 [5px 全宽 进度 语义] + 一键挂机 flat [打磨-90 高亮 border_width 断言 依赖] = 均 有意 保留 flat (与 动作 按钮 区分 防 纹理 底 抢 视觉), 口径 固化 入 ui_test 135c-2 段 断言 防 回归 误改; ui_test 新增 _assert_m135c2_skins 31 项 [2 格 构建/纹理 路径+9-slice 边距/四态 齐全/三态 同源 纹理/hover 提亮+pressed 压暗 区分/深色仙侠 b>r/flat 保留/选中 金边 M6-3 口径/残留 flat 排查 7 徽标+进度条+6 一键段+5 汇总段+6 收集行+一键挂机/收尾 清 词缀 防 污染]; selftest 10952 / ui_test +31=2705 / stress 646 / 冒烟 0 报错) [审查修复: 收集行循环 int 索引 Dictionary 致脚本错误吞 7 项断言 + _make_button flat=true 漏置属性, 修后 ui_test 2712]
 - [x] 135c-3：5 张 Steam 商店截图 重跑 (Xvfb 真实渲染, 按钮/面板 纹理 像素 校验)（实现: Xvfb :99 真实渲染 重跑 5 张 1920x1080 [135a-c 换皮后 素材 入帧确认, 演示档 口径 不变], 程序化 像素 校验 5 页 均 命中 panel_frame_frost 边框线 [modulate 0.42/0.45/0.55 后 107,115,140] + btn_primary 填充 152,154,175 + 词缀格 btn_secondary 未选中 66,77,92; 视觉 复核 顶栏/按钮 9-slice 双层 立体 边/面板 L 角饰 正常 无 错位; store/shots/ 5 张 更新 提交; selftest 10952 / ui_test 2712 / stress 646 / 冒烟 0 报错 回归 全过）
-- [ ] 135d：进度条族换皮（境界阶梯/突破/成就/收集/冷却 等全部 bar 的 底+填充 StyleBoxTexture，填充色档 金/青 逻辑不变）
+- [x] 135d：进度条族换皮（境界阶梯/突破/成就/收集/冷却 等全部 bar 的 底+填充 StyleBoxTexture，填充色档 金/青 逻辑不变）
 - [x] 135e：重跑 Steam 商店截图 + 程序化校验（并入 135c-3 完成: Xvfb 真实渲染 5 张 更新 store/shots/ + 面板/按钮 纹理 像素 命中 校验 + 视觉 复核）
 
 ### M7-3 图标与背景（打磨-136~138，按需推进）
